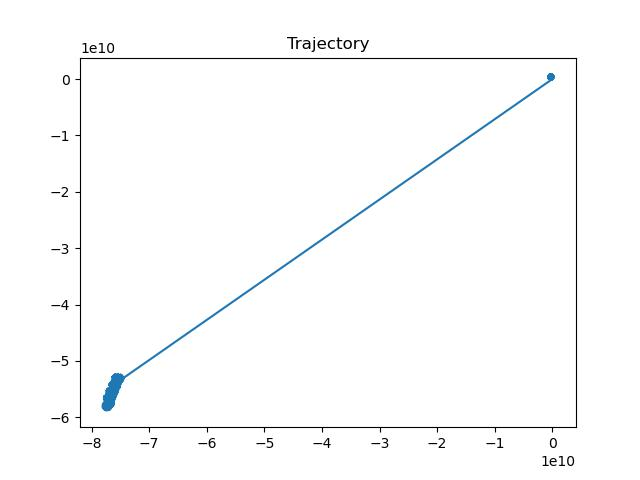
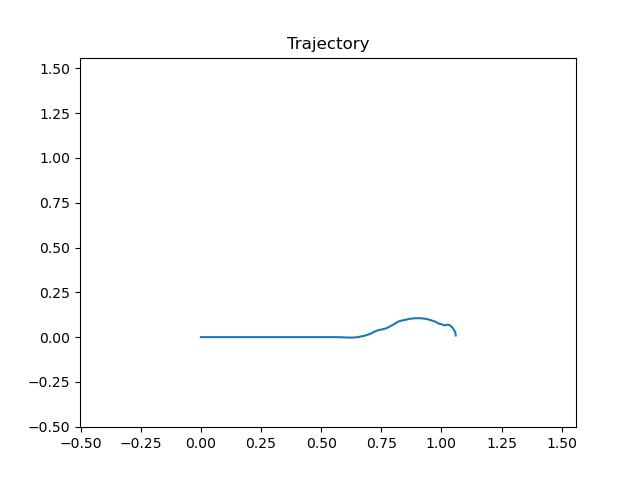
Pyomo controller

diff --git a/pyomo_controller.py b/pyomo_controller.py
@@ -1,0 +1,102 @@
+#!/usr/bin/env python3
+
+import pyomo.environ as pyo
+import numpy as np
+import matplotlib.pyplot as plt
+
+previousStates = None
+previousControls = None
+def mpcController(time, initialState, finalState, plot=False):
+    global previousStates, previousControls
+    # Hyper parameters
+    n = 30 # Time horizon
+    dt = 0.2 # Timestep between constraints
+
+    # Create the model
+    model = pyo.ConcreteModel()
+    model.limits = pyo.ConstraintList()
+
+    # Actuation constraints
+    def actuationBounds(model, t, i):
+        if i == 0:
+            # Acceleration
+            return (None, None)
+        else:
+            # Heading
+            return (-20, 20)
+
+    def stateBounds(model, t, i):
+        if i == 0:
+            # X
+            return (None, None)
+        elif i == 1:
+            # Y
+            return (None, None)
+        elif i == 2:
+            # Velocity
+            return (None, None)
+        else:
+            # Heading
+            return (None, None)
+
+    # Optimization variables
+    model.state = pyo.Var(range(n), range(4), domain=pyo.Reals, bounds=stateBounds)
+    model.control = pyo.Var(range(n), range(2), domain=pyo.Reals, bounds=actuationBounds)
+
+    # Initial conditions
+    model.limits.add(model.state[0,0] == initialState[0])
+    model.limits.add(model.state[0,1] == initialState[1])
+    model.limits.add(model.state[0,2] == initialState[2])
+    model.limits.add(model.state[0,3] == initialState[3])
+
+    # Initial Values
+    for i in range(n):
+        model.state[i,0] = initialState[0]   
+        model.state[i,1] = initialState[1]
+        model.state[i,2] = initialState[2]
+        model.state[i,3] = initialState[3]
+        model.control[i,0] = 0.0
+        model.control[i,1] = 0.0
+
+    for t in range(1,n):
+        model.limits.add(model.state[t,0] == model.state[t-1,0] + dt*model.state[t-1,2]*pyo.cos(model.state[t-1,3]))
+        model.limits.add(model.state[t,1] == model.state[t-1,1] + dt*model.state[t-1,2]*pyo.sin(model.state[t-1,3]))
+        model.limits.add(model.state[t,2] == model.state[t-1,2] + dt*model.control[t-1,0])
+        model.limits.add(model.state[t,3] == model.state[t-1,3] + dt*model.control[t-1,1])
+
+    model.limits.add(model.state[n-1,0] == finalState[0])
+    model.limits.add(model.state[n-1,1] == finalState[1])
+    model.limits.add(model.state[n-1,2] == finalState[2])
+    model.limits.add(model.state[n-1,3] == finalState[3])
+
+    # Final objective is a weight sum of controls squared and final distance
+    # from target state.
+    controlWeight0 = 1.0
+    controlWeight1 = 0.0
+    model.OBJ = pyo.Objective(expr = 
+            controlWeight0 * sum([c**2 for c in model.control[:,0]]) +
+            controlWeight1 * sum([c**2 for c in model.control[:,1]]),
+            sense=pyo.minimize)
+
+    opt = pyo.SolverFactory('ipopt')
+    
+    # Replace lines to get solver output
+    # opt.solve(model, tee=True) 
+    opt.solve(model) 
+
+    control_0 = model.control[0,0].value
+    control_1 = model.control[0,1].value
+
+    if(plot):
+        xs = np.array([model.state[t,0].value for t in range(n)])
+        ys = np.array([model.state[t,1].value for t in range(n)])
+        vs = np.array([model.state[t,2].value for t in range(n)])
+        hs = np.array([model.state[t,3].value for t in range(n)])
+        plt.plot(xs, ys)
+        all_min = min(np.min(xs), np.min(ys)) - 0.5
+        all_max = max(np.max(xs), np.max(ys)) + 0.5
+        plt.xlim([all_min, all_max])
+        plt.ylim([all_min, all_max])
+        plt.savefig("traj.jpg")
+
+    return np.array([control_0, control_1])

diff --git a/simulation.py b/simulation.py
@@ -58,20 +58,19 @@ class Simulation:
         times = [0.0]
         states = [self.initialState]
 
-        time = 0.0
         startTime = datetime.now()
         iterCount = 0
-        while(time < duration):
-            print(f"{iterCount}: Sim time: {time}/{duration}     Wall Time: {datetime.now()-startTime}")
+        while(times[-1] < duration):
+            print(f"{iterCount}: Sim time: {times[-1]}/{duration}     Wall Time: {datetime.now()-startTime}")
 
             self.control = self.controller(times[-1], states[-1])
             
-            rk45 = RK45(self.dynamics, time, states[-1], self.timeStep)
+            rk45 = RK45(self.dynamics, times[-1], states[-1], times[-1] + self.timeStep)
             while(rk45.status == 'running'):
                 rk45.step()
                 times.append(rk45.t)
                 states.append(rk45.y)
-            time += self.timeStep
+
             iterCount += 1
             
 
@@ -97,6 +96,10 @@ def plotSimulation(
 
     plt.subplot(111)
     plt.plot(sim.states[:,0], sim.states[:,1])
+    all_min = min(np.min(sim.states[:,0]), np.min(sim.states[:,1])) - 0.5
+    all_max = max(np.max(sim.states[:,0]), np.max(sim.states[:,1])) + 0.5
+    plt.xlim([all_min, all_max])
+    plt.ylim([all_min, all_max])
     plt.title("Trajectory")
 
     if(fileName is not None):

diff --git a/sim_example.py b/sim_example.py
@@ -2,16 +2,17 @@
 
 import simulation
 import numpy as np
-import mpc_controller
+import pyomo_controller
+from functools import partial
 
-def controller(time, state):
-    return np.array([0.1, 0.1])
+controller = partial(pyomo_controller.mpcController,
+                     finalState=[1.0, 0.0, 0.0, np.pi/2],
+                     plot=True)
 
 sim = simulation.Simulation(
         np.array([0.0, 0.0, 0.0, 0.0]),
-        10.0,
-        mpc_controller.mpc_controller)
+        5.0,
+        controller)
 
-sim.runSimulation(5)
-
+sim.runSimulation(10.0)
 simulation.plotSimulation(sim, 'test.jpg')
